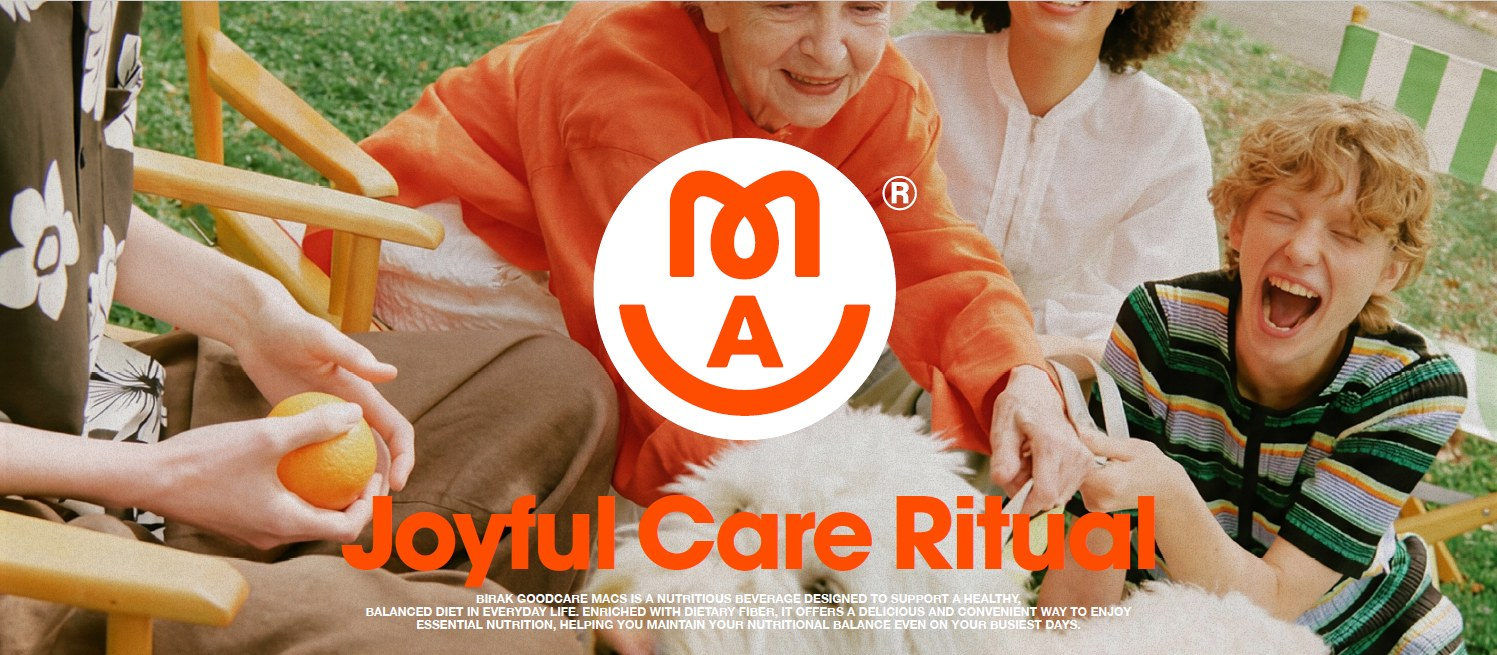
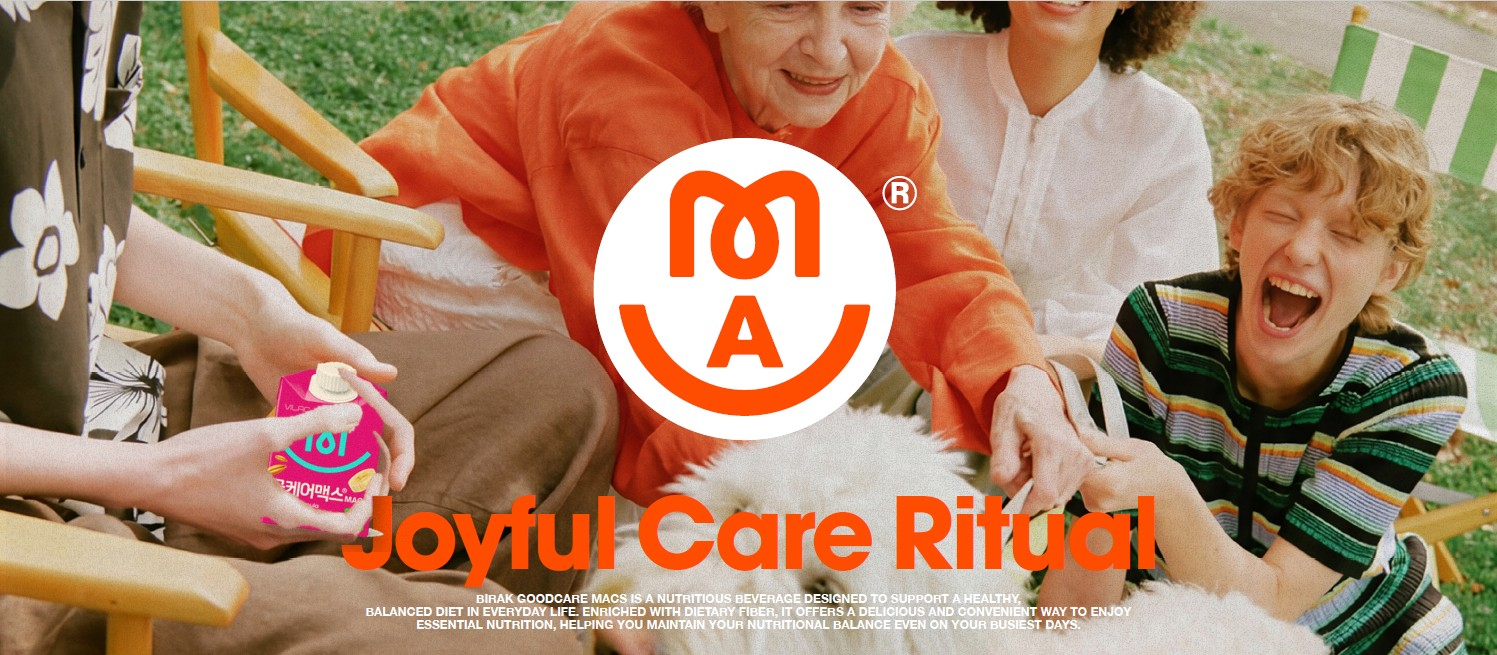
v2: 히어로를 로고+제품 중심으로, 떠다니는 유리 태그 유지, 문의하기 플로팅 버튼·1:1 문의, 가족 사진 속 귤을 굿케어맥스로 교체
Claude-Session: https://claude.ai/code/session_0129WmaJUkfSoVWfVN3JuRjv

Changed region(s): [[0.1536, 0.5496, 0.2766, 0.855]]

diff --git a/v2/shop.html b/v2/shop.html
@@ -248,6 +248,20 @@ footer.ft .pol a{color:#fff;font-weight:600}
 footer.ft .pol a.b{color:var(--orange)}
 footer.ft .biz{line-height:1.9}
 footer.ft .cs{margin-top:14px}
+/* ===== floating inquiry button ===== */
+.ask{position:fixed;right:clamp(16px,2.4vw,32px);bottom:clamp(16px,2.4vw,32px);z-index:60;display:grid;justify-items:end;gap:12px}
+.ask-btn{width:64px;height:64px;border-radius:50%;border:0;background:#FF6839;color:#fff;display:grid;place-items:center;cursor:pointer;box-shadow:0 14px 30px rgba(0,0,0,.25);transition:transform .2s}
+.ask-btn:hover{transform:scale(1.06)}
+.ask-btn svg{width:28px;height:28px}
+.ask-btn small{position:absolute;bottom:-20px;font:700 12px/1 "Noto Sans KR",sans-serif;color:#FF6839;text-shadow:0 0 6px #fff}
+.ask-panel{width:min(320px,calc(100vw - 32px));background:#fff;color:#14213D;border-radius:20px;padding:20px;box-shadow:0 24px 60px rgba(0,0,0,.3);display:none}
+.ask.open .ask-panel{display:block;animation:fade .2s}
+.ask-panel h3{margin:0 0 4px;font:800 19px/1.3 "Noto Sans KR",sans-serif}
+.ask-panel p{margin:0 0 14px;font-size:14px;color:#5B6478}
+.ask-panel a{display:flex;align-items:center;gap:12px;padding:13px 14px;border-radius:14px;border:1.5px solid #E3E0D8;margin-top:8px;font:700 15.5px/1.3 "Noto Sans KR",sans-serif}
+.ask-panel a:hover{border-color:#004BDE;background:#F3F6FF}
+.ask-panel a i{width:34px;height:34px;border-radius:10px;display:grid;place-items:center;font-style:normal;font-weight:900;flex:none}
+.ask-panel a span small{display:block;font:500 13px/1.3 "Noto Sans KR",sans-serif;color:#5B6478}
 @media (prefers-reduced-motion:reduce){*,*::before,*::after{animation:none!important;transition:none!important}}
 </style>
 </head>
@@ -274,7 +288,7 @@ footer.ft .cs{margin-top:14px}
 <footer class="ft">
   <div class="wrap">
     <div class="lg">VILAC · GOODCARE <b>MACs</b></div>
-    <div class="pol"><a href="#/doc/terms">이용약관</a><a class="b" href="#/doc/privacy">개인정보처리방침</a><a href="#/doc/refund">교환·환불 정책</a><a href="#/guest">비회원 주문조회</a></div>
+    <div class="pol"><a href="#/inquiry">1:1 문의</a><a href="#/doc/terms">이용약관</a><a class="b" href="#/doc/privacy">개인정보처리방침</a><a href="#/doc/refund">교환·환불 정책</a><a href="#/guest">비회원 주문조회</a></div>
     <div class="biz">
       상호 <span class="ph-fill">[(주)비락]</span> · 대표 <span class="ph-fill">[대표자명]</span> · 사업자등록번호 <span class="ph-fill">[000-00-00000]</span><br>
       통신판매업 신고 <span class="ph-fill">[제0000-지역-0000호]</span> · 개인정보보호책임자 <span class="ph-fill">[성명]</span><br>
@@ -739,6 +753,22 @@ const views={
       <div class="err" id="gerr" role="alert"></div><button class="btn block">조회하기</button></form><div id="gres" style="margin-top:22px"></div></div>`);
     V.querySelector('#gf').onsubmit=e=>{e.preventDefault();try{const o=API.guestOrder(V.querySelector('#gi').value,V.querySelector('#gh').value,V.querySelector('#gpw').value);V.querySelector('#gerr').textContent='';V.querySelector('#gres').innerHTML=orderCard(o);bindOrderCards();}catch(x){V.querySelector('#gerr').textContent=x.message;}};
   },
+  inquiry(){
+    const u=API.me();
+    render(`<div class="form"><h1 class="pt" style="text-align:center">1:1 문의</h1><p class="pt-sub" style="text-align:center">영업일 기준 1~2일 안에 알림톡·이메일로 답변드려요.</p>
+      <form id="qf" novalidate><div class="fld"><label for="qt">문의 유형</label><select class="in" id="qt"><option>상품 문의</option><option>주문·결제</option><option>배송</option><option>교환·반품·환불</option><option>정기배송</option><option>IM.BERT 서비스</option><option>기타</option></select></div>
+      <div class="fld"><label for="qn">이름</label><input class="in" id="qn" value="${esc(u?u.name:'')}"></div>
+      <div class="fld"><label for="qh">휴대폰</label><input class="in" id="qh" inputmode="tel" value="${esc(u?u.phone:'')}"></div>
+      <div class="fld"><label for="qe">이메일 (선택)</label><input class="in" id="qe" type="email" value="${esc(u?u.email:'')}"></div>
+      <div class="fld"><label for="qo">주문번호 (선택)</label><input class="in" id="qo" placeholder="VL…"></div>
+      <div class="fld"><label for="qm">문의 내용</label><textarea class="in" id="qm" rows="6" style="height:auto;padding:14px 16px" placeholder="궁금한 점을 적어주세요."></textarea></div>
+      <label style="display:flex;gap:8px;align-items:center;font-size:15px;margin-bottom:16px"><input type="checkbox" id="qa" style="width:20px;height:20px;accent-color:var(--cobalt)"> [필수] 문의 처리를 위한 개인정보 수집·이용에 동의합니다</label>
+      <div class="err" id="qerr" role="alert"></div><button class="btn block">문의 남기기</button></form></div>`);
+    V.querySelector('#qf').onsubmit=e=>{e.preventDefault();const g=id=>V.querySelector('#'+id).value.trim();const er=V.querySelector('#qerr');
+      if(g('qn').length<2||!/^01[016789]-?\d{3,4}-?\d{4}$/.test(g('qh'))||g('qm').length<5||!V.querySelector('#qa').checked){er.textContent='이름·휴대폰·문의 내용(5자 이상)·동의를 확인해 주세요.';return;}
+      const qs=DB.get('inquiries',[]);qs.unshift({id:uid('Q'),uid:u?u.id:null,type:g('qt'),name:g('qn'),phone:fmtPhone(g('qh')),email:g('qe'),order:g('qo'),msg:g('qm'),at:new Date().toISOString(),status:'접수'});DB.set('inquiries',qs);
+      render(`<div class="empty box"><b style="font-size:20px">문의가 접수됐어요</b><p>영업일 기준 1~2일 안에 답변드릴게요.</p><a class="btn" href="#/list?brand=${curBrand}">스토어로 돌아가기</a></div>`);};
+  },
   imbert(){render(`<div class="box" style="max-width:760px;margin:0 auto"><span class="tag">AT-HOME TEST</span><h1 class="pt" style="margin-top:10px">IM.BERT 1:1 맞춤 상담</h1><p>집에서 하는 장내 미생물 검사와 AI 리포트, 그리고 1:1 이중영양 설계는 상담 후 진행돼요.</p>
     <div class="fld" style="margin-top:20px"><label for="in1">이름</label><input class="in" id="in1"></div><div class="fld"><label for="in2">연락처</label><input class="in" id="in2" inputmode="tel"></div>
     <label style="display:flex;gap:8px;align-items:center;font-size:15px;margin-bottom:16px"><input type="checkbox" id="in3" style="width:20px;height:20px;accent-color:var(--cobalt)"> [필수] 상담을 위한 개인정보 수집·이용에 동의합니다</label>
@@ -805,6 +835,23 @@ if(LS.get('promoOff','')===today())document.getElementById('promo').remove();
 else document.getElementById('promoX').onclick=()=>{LS.set('promoOff',today());document.getElementById('promo').remove();};
 if(CONFIG.mode!=='demo')document.getElementById('demoBar').remove();
 route();
+</script>
+<div class="ask" id="ask">
+  <div class="ask-panel" id="askPanel" role="dialog" aria-label="문의하기">
+    <h3>무엇을 도와드릴까요?</h3><p>평일 09:00~18:00 · 점심 12:00~13:00</p>
+    <a href="#" data-kakao><i style="background:#FEE500;color:#191919">K</i><span>카카오톡 상담<small>채널 추가하고 바로 문의</small></span></a>
+    <a href="#/inquiry"><i style="background:#EAF0FF;color:#004BDE">✎</i><span>1:1 문의 남기기<small>답변은 알림톡·이메일로</small></span></a>
+    <a href="#/imbert"><i style="background:#FFEDE6;color:#C8441B">B</i><span>IM.BERT 맞춤 상담 신청<small>장내 미생물 검사 · 1:1 설계</small></span></a>
+    <a href="tel:000-0000-0000"><i style="background:#F1EFEA;color:#14213D">☎</i><span>고객센터 전화<small>[000-0000-0000]</small></span></a>
+  </div>
+  <button type="button" class="ask-btn" id="askBtn" aria-expanded="false" aria-controls="askPanel" aria-label="문의하기"><svg viewBox="0 0 24 24" fill="none" stroke="currentColor" stroke-width="2"><path d="M21 12a8 8 0 0 1-11.6 7.1L4 20l1-4.6A8 8 0 1 1 21 12z"/></svg></button>
+</div>
+<script>
+(function(){const a=document.getElementById('ask'),b=document.getElementById('askBtn');
+b.onclick=()=>{const o=a.classList.toggle('open');b.setAttribute('aria-expanded',o);};
+document.addEventListener('keydown',e=>{if(e.key==='Escape'){a.classList.remove('open');b.setAttribute('aria-expanded',false);}});
+document.addEventListener('click',e=>{if(!a.contains(e.target)){a.classList.remove('open');b.setAttribute('aria-expanded',false);}});
+a.querySelector('[data-kakao]').onclick=e=>{e.preventDefault();const p=a.querySelector('.ask-panel p');p.textContent='카카오톡 채널 주소가 정해지면 연결돼요.';};})();
 </script>
 
 </body>

diff --git a/v2/index.html b/v2/index.html
@@ -365,6 +365,48 @@ header.solid .shopbtn{background:var(--cobalt);color:#fff}
 @media (max-width:620px){.nav{flex-wrap:wrap;height:auto;padding:12px 0;gap:10px}.bsw{order:3;width:100%;justify-content:space-between;margin:0}.bsw a{flex:1;text-align:center}.shopbtn{margin-left:auto;padding:9px 14px}.burger{display:none}}
 html,body{overflow-x:clip}
 .ritual{line-height:0;background:#F3EFE6}.ritual img{width:100%;height:auto;display:block}
+
+/* ===== hero v3: logo + products up front (glass pills keep floating) ===== */
+.hero{padding-block:110px 64px}
+.hero2{gap:0}
+.hero2 .badge{width:clamp(96px,9.5vw,150px);height:auto;filter:drop-shadow(0 18px 30px rgba(0,20,80,.35));animation:calmfloat 10s ease-in-out infinite}
+.hero h1.mark{font:900 clamp(44px,7vw,112px)/.95 var(--display);letter-spacing:-.04em;text-transform:none;margin:18px 0 0;white-space:nowrap}
+.hero h1.mark b{color:var(--orange)}
+.hero h1.mark .line{display:inline-block;animation:calmup 1.6s cubic-bezier(.25,.6,.2,1) both}
+.sr-kr{position:absolute;width:1px;height:1px;overflow:hidden;clip:rect(0 0 0 0)}
+.hero .tl{margin-top:22px}
+.lineup2{display:flex;justify-content:center;align-items:flex-end;gap:clamp(20px,5vw,90px);margin-top:clamp(28px,4vw,48px)}
+.p2{margin:0;display:grid;justify-items:center;gap:12px;animation:calmup 1.6s .4s cubic-bezier(.25,.6,.2,1) both}
+.p2 img{height:clamp(160px,19vw,280px);width:auto;filter:drop-shadow(0 28px 36px rgba(0,15,70,.42));animation:calmfloat 12s ease-in-out infinite}
+.p2b img{animation-delay:-6s}
+.p2a img{rotate:-4deg}.p2b img{rotate:4deg}
+.p2 figcaption{font:700 15px/1 var(--kr);background:rgba(255,255,255,.16);border:1px solid rgba(255,255,255,.4);border-radius:999px;padding:9px 16px;-webkit-backdrop-filter:blur(10px);backdrop-filter:blur(10px)}
+.hero-buy{margin-top:30px;display:inline-flex;align-items:center;gap:8px;background:#fff;color:var(--cobalt);border-radius:999px;padding:16px 30px;font:800 17px/1 var(--kr);box-shadow:0 14px 30px rgba(0,20,80,.25);position:relative;z-index:3}
+.hero-buy::after{content:"→"}
+.hero-buy:hover{background:var(--orange);color:#fff}
+.hero .tag.t1{top:18%;right:16%}.hero .tag.t2{top:52%;right:9%}.hero .tag.t3{top:24%;left:10%}.hero .tag.t4{top:56%;left:12%}.hero .tag.t5{top:74%;right:20%}
+@media (max-width:760px){
+  .hero{padding-block:120px 56px}
+  .hero h1.mark{font-size:10.6vw}
+  .p2 img{height:44vw}
+  .hero .tag{font-size:12px}
+  .hero{padding-bottom:84px}
+  .hero .tag.t1{top:150px;right:4%}.hero .tag.t2{top:200px;right:auto;left:4%}.hero .tag.t3{top:auto;bottom:22px;left:4%}.hero .tag.t4{display:none}.hero .tag.t5{top:auto;bottom:22px;left:auto;right:4%}
+}
+/* ===== floating inquiry button ===== */
+.ask{position:fixed;right:clamp(16px,2.4vw,32px);bottom:clamp(16px,2.4vw,32px);z-index:60;display:grid;justify-items:end;gap:12px}
+.ask-btn{width:64px;height:64px;border-radius:50%;border:0;background:var(--orange);color:#fff;display:grid;place-items:center;cursor:pointer;box-shadow:0 14px 30px rgba(0,0,0,.25);transition:transform .2s}
+.ask-btn:hover{transform:scale(1.06)}
+.ask-btn svg{width:28px;height:28px}
+.ask-btn small{position:absolute;bottom:-20px;font:700 12px/1 var(--kr);color:var(--orange);text-shadow:0 0 6px #fff}
+.ask-panel{width:min(320px,calc(100vw - 32px));background:#fff;color:#14213D;border-radius:20px;padding:20px;box-shadow:0 24px 60px rgba(0,0,0,.3);display:none}
+.ask.open .ask-panel{display:block;animation:post-in .25s ease both}
+.ask-panel h3{margin:0 0 4px;font:800 19px/1.3 var(--kr)}
+.ask-panel p{margin:0 0 14px;font-size:14px;color:#5B6478}
+.ask-panel a{display:flex;align-items:center;gap:12px;padding:13px 14px;border-radius:14px;border:1.5px solid #E3E0D8;margin-top:8px;font:700 15.5px/1.3 var(--kr)}
+.ask-panel a:hover{border-color:var(--cobalt);background:#F3F6FF}
+.ask-panel a i{width:34px;height:34px;border-radius:10px;display:grid;place-items:center;font-style:normal;font-weight:900;flex:none}
+.ask-panel a span small{display:block;font:500 13px/1.3 var(--kr);color:#5B6478}
 @media (prefers-reduced-motion:reduce){*,*::before,*::after{animation:none!important;transition:none!important}.js .rv{transform:none;opacity:1}html{scroll-behavior:auto}}
 </style>
 </head>
@@ -398,10 +440,15 @@ html,body{overflow-x:clip}
     <span class="tag t3">Postbiotics</span>
     <span class="tag t4">IM.BERT</span>
     <span class="tag t5">Lactose-free</span>
-    <div class="float f2" aria-hidden="true"><img src="assets/gcm-pack-banana.png" alt=""></div>
-    <div class="stack wrap">
-      <h1><span class="r1"><span class="line">Goodcare</span></span><span class="r2"><span class="line">Dual</span></span><span><span class="line">Nutrition</span></span></h1>
+    <div class="stack wrap hero2">
+      <img class="badge" src="assets/gcm-badge.png" alt="" width="300" height="300">
+      <h1 class="mark"><span class="line">GOODCARE <b>MACs</b></span><span class="sr-kr">굿케어맥스</span></h1>
       <p class="tl">We feed <b>you</b> &amp; <b>your microbes</b></p>
+      <div class="lineup2">
+        <figure class="p2 p2a"><img src="assets/gcm-pack-banana.png" alt="굿케어맥스 그린바나나오트"><figcaption>그린바나나오트</figcaption></figure>
+        <figure class="p2 p2b"><img src="assets/gcm-pack-pistachio-tbd.svg" alt="굿케어맥스 피스타치오"><figcaption>피스타치오</figcaption></figure>
+      </div>
+      <a class="hero-buy" href="shop.html#/list?brand=gcm">굿케어맥스 구매하기</a>
     </div>
   </section>
 
@@ -684,6 +731,24 @@ html,body{overflow-x:clip}
   draw(t0);cv.classList.add('on');
   if(!still)(function loop(now){if(vis)draw(now);requestAnimationFrame(loop);})(t0);
 })();
+</script>
+
+<div class="ask" id="ask">
+  <div class="ask-panel" id="askPanel" role="dialog" aria-label="문의하기">
+    <h3>무엇을 도와드릴까요?</h3><p>평일 09:00~18:00 · 점심 12:00~13:00</p>
+    <a href="#" data-kakao><i style="background:#FEE500;color:#191919">K</i><span>카카오톡 상담<small>채널 추가하고 바로 문의</small></span></a>
+    <a href="shop.html#/inquiry"><i style="background:#EAF0FF;color:#004BDE">✎</i><span>1:1 문의 남기기<small>답변은 알림톡·이메일로</small></span></a>
+    <a href="shop.html#/imbert"><i style="background:#FFEDE6;color:#C8441B">B</i><span>IM.BERT 맞춤 상담 신청<small>장내 미생물 검사 · 1:1 설계</small></span></a>
+    <a href="tel:000-0000-0000"><i style="background:#F1EFEA;color:#14213D">☎</i><span>고객센터 전화<small>[000-0000-0000]</small></span></a>
+  </div>
+  <button type="button" class="ask-btn" id="askBtn" aria-expanded="false" aria-controls="askPanel" aria-label="문의하기"><svg viewBox="0 0 24 24" fill="none" stroke="currentColor" stroke-width="2"><path d="M21 12a8 8 0 0 1-11.6 7.1L4 20l1-4.6A8 8 0 1 1 21 12z"/></svg></button>
+</div>
+<script>
+(function(){const a=document.getElementById('ask'),b=document.getElementById('askBtn');
+b.onclick=()=>{const o=a.classList.toggle('open');b.setAttribute('aria-expanded',o);};
+document.addEventListener('keydown',e=>{if(e.key==='Escape'){a.classList.remove('open');b.setAttribute('aria-expanded',false);}});
+document.addEventListener('click',e=>{if(!a.contains(e.target)){a.classList.remove('open');b.setAttribute('aria-expanded',false);}});
+a.querySelector('[data-kakao]').onclick=e=>{e.preventDefault();const p=a.querySelector('.ask-panel p');p.textContent='카카오톡 채널 주소가 정해지면 연결돼요.';};})();
 </script>
 
 </body>
